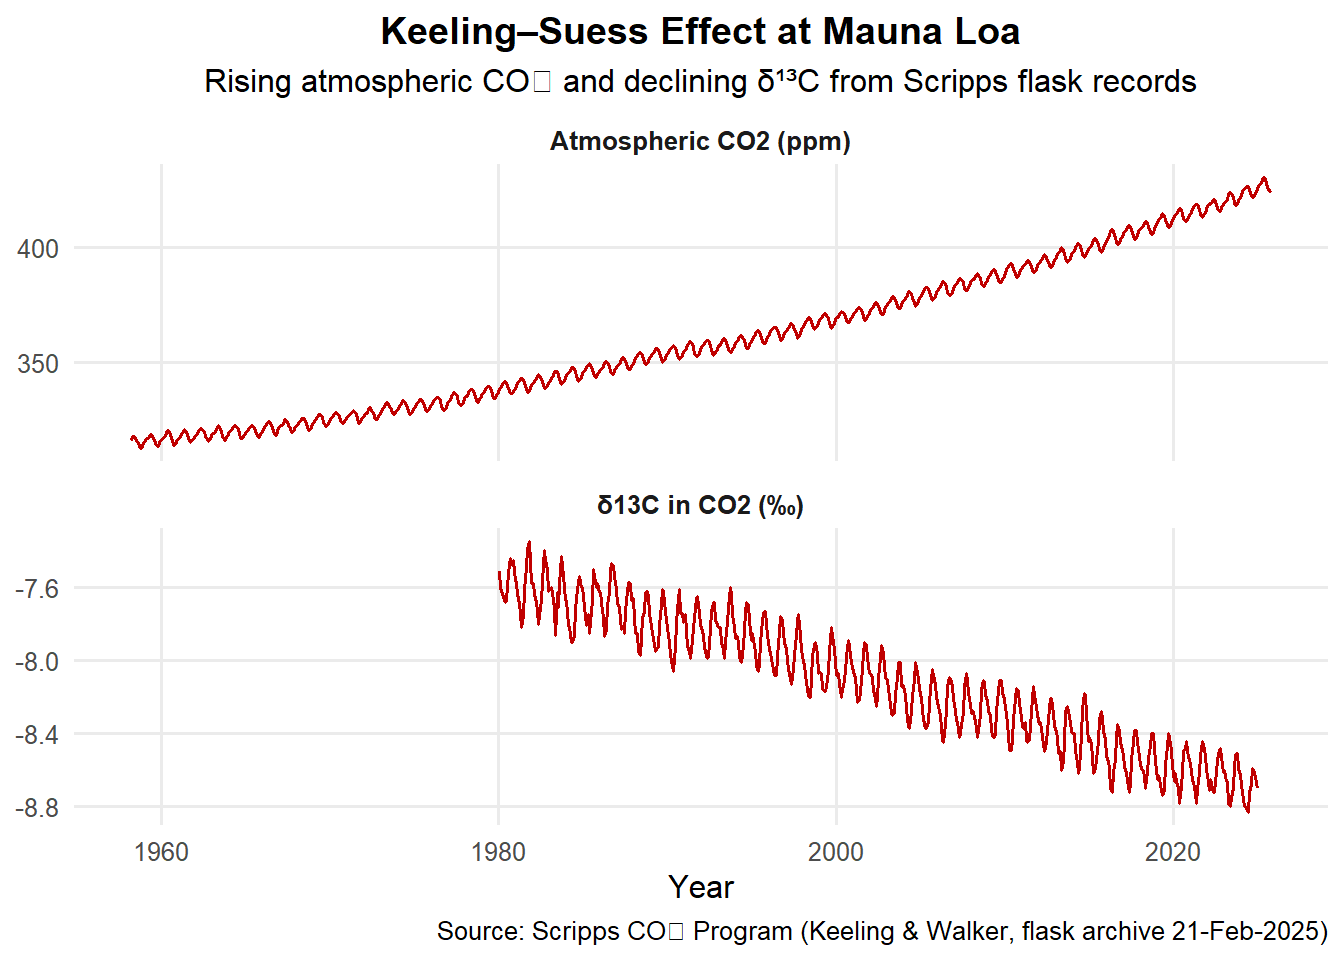
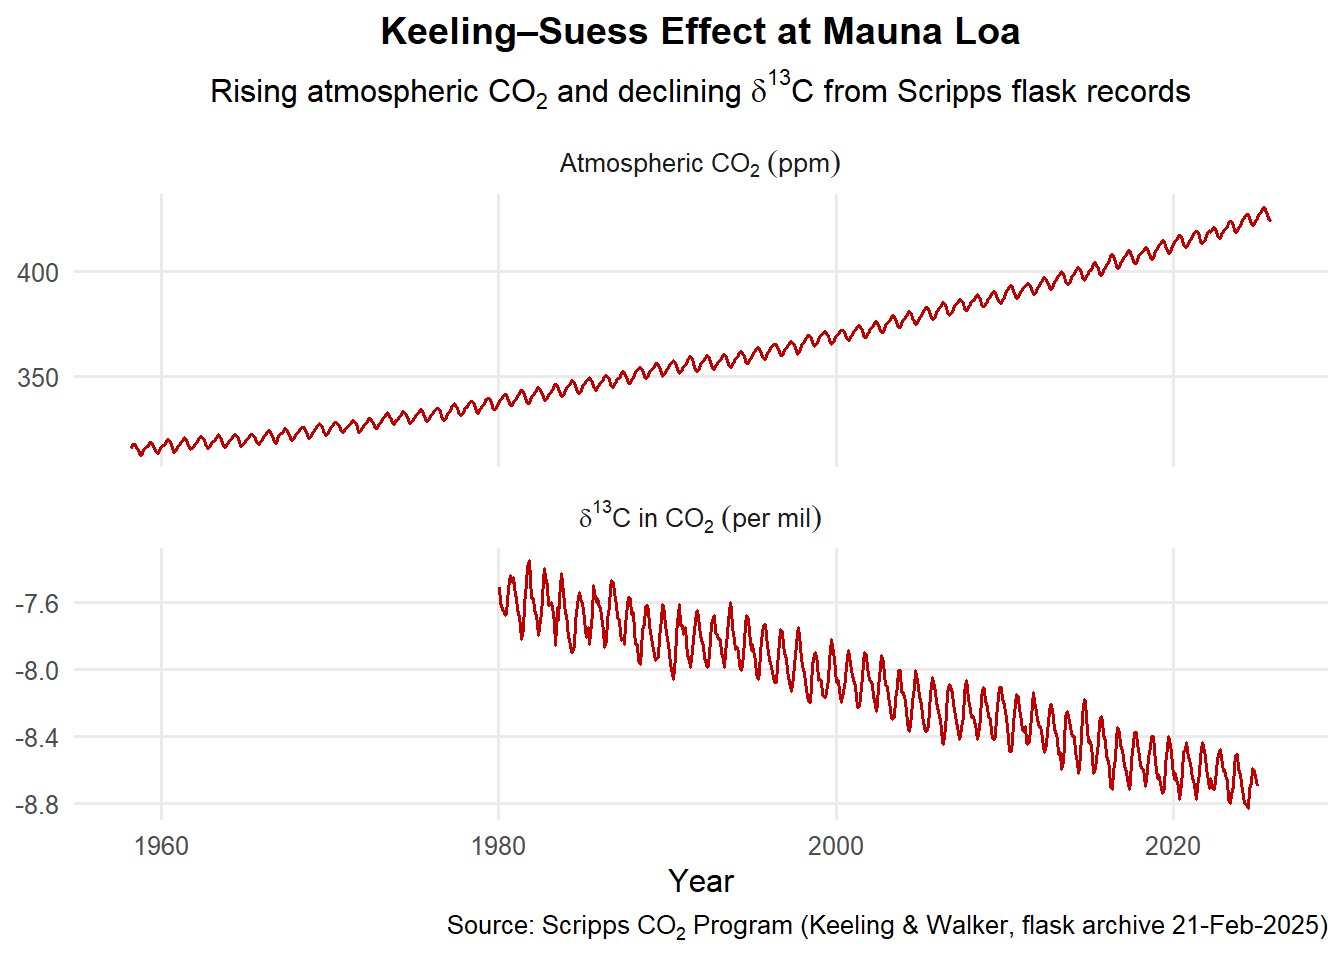
Fix Keeling–Suess plot labels for Quarto HTML; resolve encoding issues

diff --git a/R3MFinalProject.html b/R3MFinalProject.html
@@ -108,7 +108,7 @@ ul.task-list li input[type="checkbox"] {
 <section id="the-suess-effect" class="level2">
 <h2 class="anchored" data-anchor-id="the-suess-effect">The Suess Effect:</h2>
 <p>That the concentration was rising became obvious. But why the steady increase? The Suess Effect is crucial for climate science because it’s a fingerprint of human activity, showing a dilution of heavier carbon isotopes (<sup>13</sup>C and <sup>14</sup>C) in the atmosphere and oceans due to burning fossil fuels, which releases carbon lacking these isotopes. It provides undeniable proof that rising CO<sub>2</sub> levels stem from fossil fuels, not natural cycles, helping attribute climate change to human actions and serving as a baseline for tracking carbon uptake by oceans and land, informing climate models and mitigation strategies.</p>
-<p>This fingerprint of human activity, showing a dilution of heavier carbon isotopes<code>^13^C and ^14^C</code>in the atmosphere and oceans due to burning fossil fuels, which releases carbon lacking these isotopes. It provides undeniable proof that rising<code>CO~2~</code>levels stem from fossil fuels, not natural cycles, helping attribute climate change to human actions and serving as a baseline for tracking carbon uptake by oceans and land, informing climate models and mitigation strategies. Here we see as CO2 levels rise the increasing`<sup>12</sup>C from fossil fuels decreases the <sup>13</sup>C/<sup>12</sup>C ratio:</p>
+<p>This fingerprint of human activity, showing a dilution of heavier carbon isotopes <sup>13</sup>C and <sup>14</sup>C in the atmosphere and oceans due to burning fossil fuels, which releases carbon lacking these isotopes. It provides undeniable proof that rising CO<sub>2</sub> levels stem from fossil fuels, not natural cycles, helping attribute climate change to human actions and serving as a baseline for tracking carbon uptake by oceans and land, informing climate models and mitigation strategies. Here we see as CO<sub>2</sub> levels rise the increasing <sup>12</sup>C from fossil fuels decreases the <sup>13</sup>C/<sup>12</sup>C ratio:</p>
 <div class="cell">
 <div class="cell-output-display">
 <div>
@@ -121,7 +121,7 @@ ul.task-list li input[type="checkbox"] {
 </section>
 <section id="the-historical-record" class="level2">
 <h2 class="anchored" data-anchor-id="the-historical-record">The Historical Record</h2>
-<p>It turns out that we can measure the temperature record over the last 150,000 years. To do this I chose to use the Vostok and Law Dome historical data. Vostok and Law Dome measure historical temperatures560 using ice cores, analyzing the ratios of heavy to light oxygen and hydrogen isotopes (like Deuterium) in water molecules, which vary with past air temperatures, and also by studying air bubbles trapped in the ice to find ancient greenhouse gas levels, correlating these proxies to reconstruct past climate, with Vostok famous for long CO2 records and Law Dome for high-resolution recent data.</p>
+<p>It turns out that we can measure the temperature record over the last 150,000 years. To do this I chose to use the Vostok and Law Dome historical data. Vostok and Law Dome measure historical temperatures using ice cores, analyzing the ratios of heavy to light oxygen and hydrogen isotopes (like Deuterium) in water molecules, which vary with past air temperatures, and also by studying air bubbles trapped in the ice to find ancient greenhouse gas levels, correlating these proxies to reconstruct past climate, with Vostok famous for long CO<sub>2</sub> records and Law Dome for high-resolution recent data.</p>
 <p>Combining these data sets give us the well-known hockey stick chart. I have chosen to depict this a three layer chart which shows the measurements over the last 160,000 years, over the 12,000 Holocene years, and over the 50 years of the Anthropocene.</p>
 <div class="cell">
 <div class="cell-output-display">
@@ -164,8 +164,7 @@ ul.task-list li input[type="checkbox"] {
 <h2 class="anchored" data-anchor-id="so-why-do-we-care-if-the-climate-changes">So, why do we care if the climate changes?</h2>
 <section id="consequence-1-increasingly-frequent-and-intense-climate-disasters" class="level3">
 <h3 class="anchored" data-anchor-id="consequence-1-increasingly-frequent-and-intense-climate-disasters">Consequence #1: increasingly frequent and intense climate disasters</h3>
-<p>There’s a strong positive correlation: as CO<sub>2</sub> levels and global temperatures rise, the frequency and cost of billion-dollar climate disasters (like hurricanes, floods, droughts) also significantly increase, demonstrating that rising greenhouse gases are directly linked to escalating economic burdens from extreme weather events, according to studies analyzing U.S. data from 1980-2021.</p>
-<p>Looking across the full record of annual U.S. billion-dollar disaster losses and global temperature anomalies, a simple linear model shows that each additional 1°C of global warming is associated with roughly [S] billion dollars in extra disaster losses per year. That translates to about [S×0.1] billion dollars for every 0.1°C of warming, or about [S/1.8×0.1] billion dollars for every 0.1°F. In this framework, cooling by the same increments would be expected to reduce average losses by a similar amount. Here, we look at the accumulated cost of the recorded billion dollar events since 1980.</p>
+<p>There’s a strong positive correlation: as CO<sub>2</sub> levels and global temperatures rise, the frequency and cost of billion-dollar climate disasters (like hurricanes, floods, droughts) also significantly increase, demonstrating that rising greenhouse gases are directly linked to escalating economic burdens from extreme weather events, according to studies analyzing U.S. data from 1980-2021. Here, we look at the accumulated cost of the recorded billion dollar events since 1980.</p>
 <div class="cell">
 <div class="cell-output-display">
 <div>
@@ -192,7 +191,7 @@ ul.task-list li input[type="checkbox"] {
 </section>
 <section id="consequence-3-sea-level-rise" class="level3">
 <h3 class="anchored" data-anchor-id="consequence-3-sea-level-rise">Consequence #3: Sea Level Rise</h3>
-<p>Higher CO2 levels trap heat, warming the planet, which directly causes sea level rise through melting ice (glaciers, ice sheets) and thermal expansion (warm water taking up more space), a critical issue because rising seas threaten coastal communities, infrastructure, economies, and ecosystems with flooding, erosion, and saltwater intrusion, impacting millions globally. This correlation is strong over geological time and current human-caused warming amplifies it, though sea level response lags behind immediate warming due to ocean and ice inertia, meaning effects persist for centuries.</p>
+<p>Higher CO<sub>2</sub> levels trap heat, warming the planet, which directly causes sea level rise through melting ice (glaciers, ice sheets) and thermal expansion (warm water taking up more space), a critical issue because rising seas threaten coastal communities, infrastructure, economies, and ecosystems with flooding, erosion, and saltwater intrusion, impacting millions globally. This correlation is strong over geological time and current human-caused warming amplifies it, though sea level response lags behind immediate warming due to ocean and ice inertia, meaning effects persist for centuries.</p>
 <p>For instance, here is a 50 mile radius around San Francisco, CA. If sea level rises 1.5m you will see purple…and at 2m rise you see red. We can do this by generating an area map, then using a high resolution Digital Elevation Model (DEM) to query a locations elevation above sea level, and using this to color a dot over the map. The current implementation only does locations in the U.S.: other countries may or may not have publicly available data available.</p>
 <div class="cell">
 <div class="cell-output-display">
